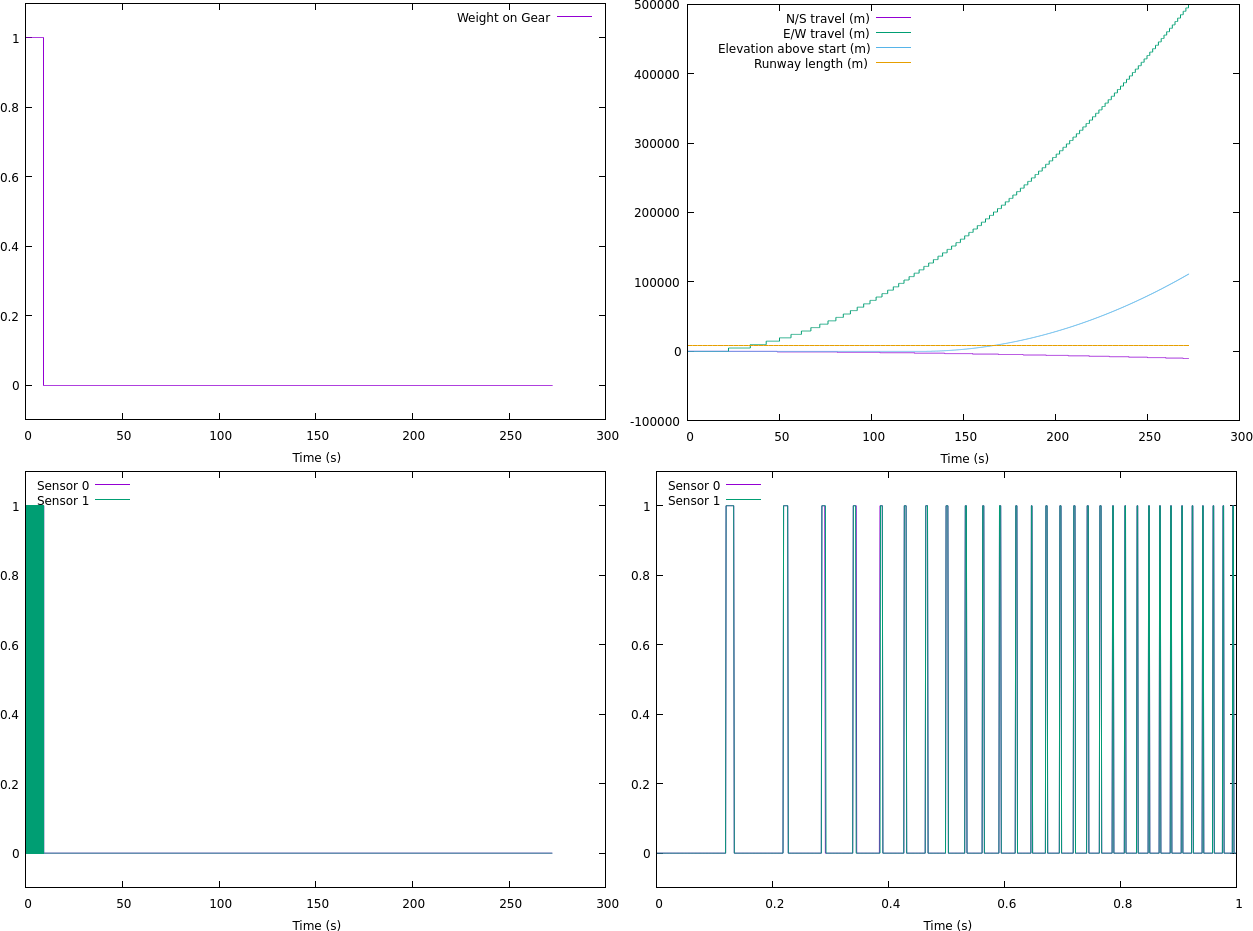
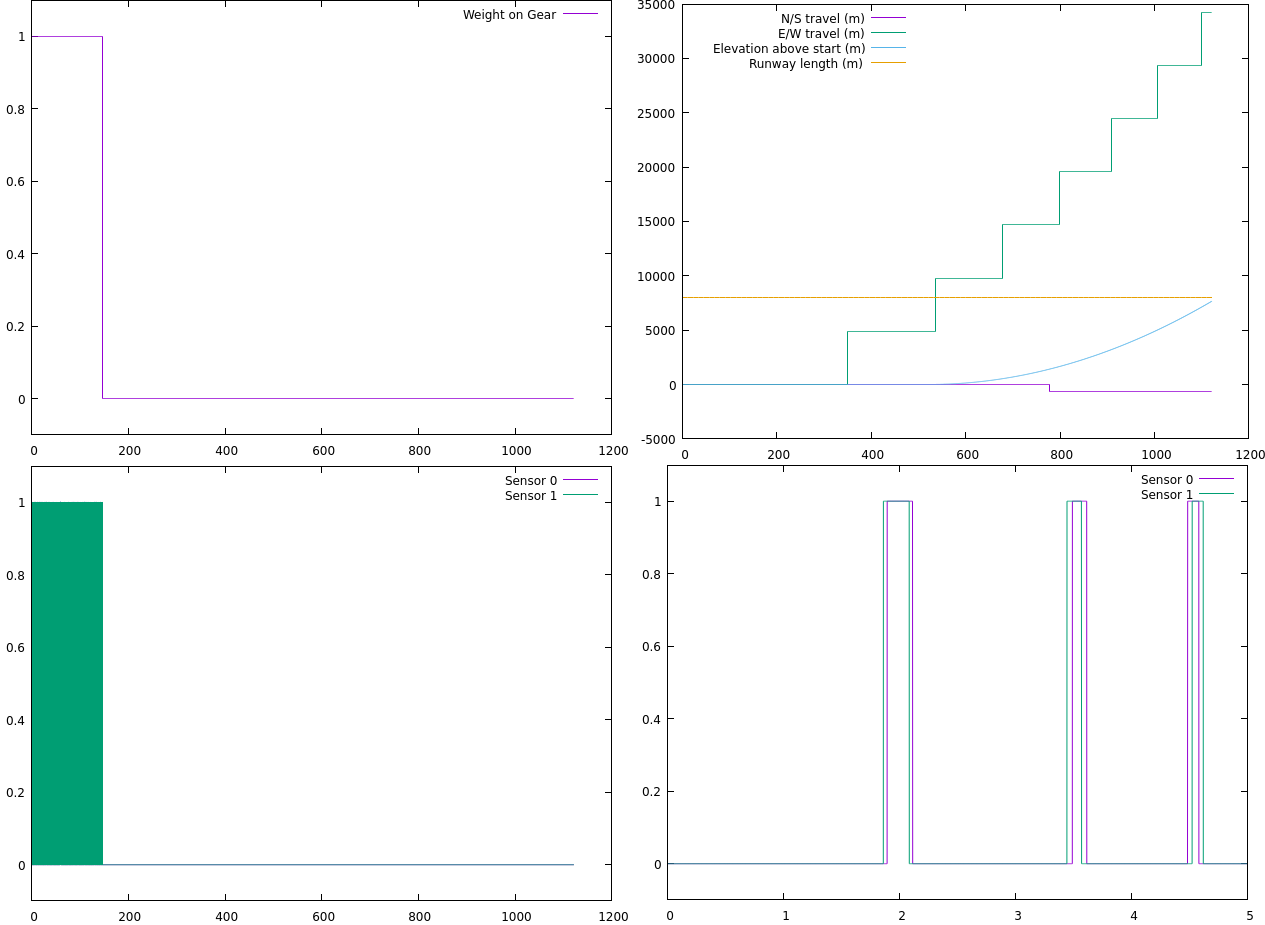
Corrected acceleration and v_lof.
Everything makes more sense, but still detecting lift off too early.

diff --git a/Skydweller/Wheel_Sim.cpp b/Skydweller/Wheel_Sim.cpp
@@ -22,9 +22,10 @@ int main()
 	const vector3 across_runway = along_runway.cross_product(gravity).normalize();
 	const vector3 runway_normal = along_runway.cross_product(across_runway).normalize();
 
-	vector3 Acc_ground = along_runway*9.8*1.5;	//Acceleration is 1.5 gs pointing from start to end of KCFO_8
-	vector3 Acc_air = (runway_normal+along_runway).normalize()*9.8*1.5;	//1.5gs 45 degrees up from runway surface
-	double V_lof = 1850; //60 knots (1850 m/s) for a Cessna and 160 knots (4933 m/s) for a Boeing 777
+	double V_lof = 30.87; //60 knots (30.87 m/s) for a Cessna and 160 knots (82.31 m/s) for a Boeing 777
+	double Acc = pow(V_lof,2)/16000.;
+	vector3 Acc_ground = along_runway*Acc;	//Acceleration is 1.5 gs pointing from start to end of KCFO_8
+	vector3 Acc_air = (runway_normal+along_runway).normalize()*Acc;	//1.5gs 45 degrees up from runway surface
 
 	while(Main_Wheel.Speed() < V_lof)
 	{
